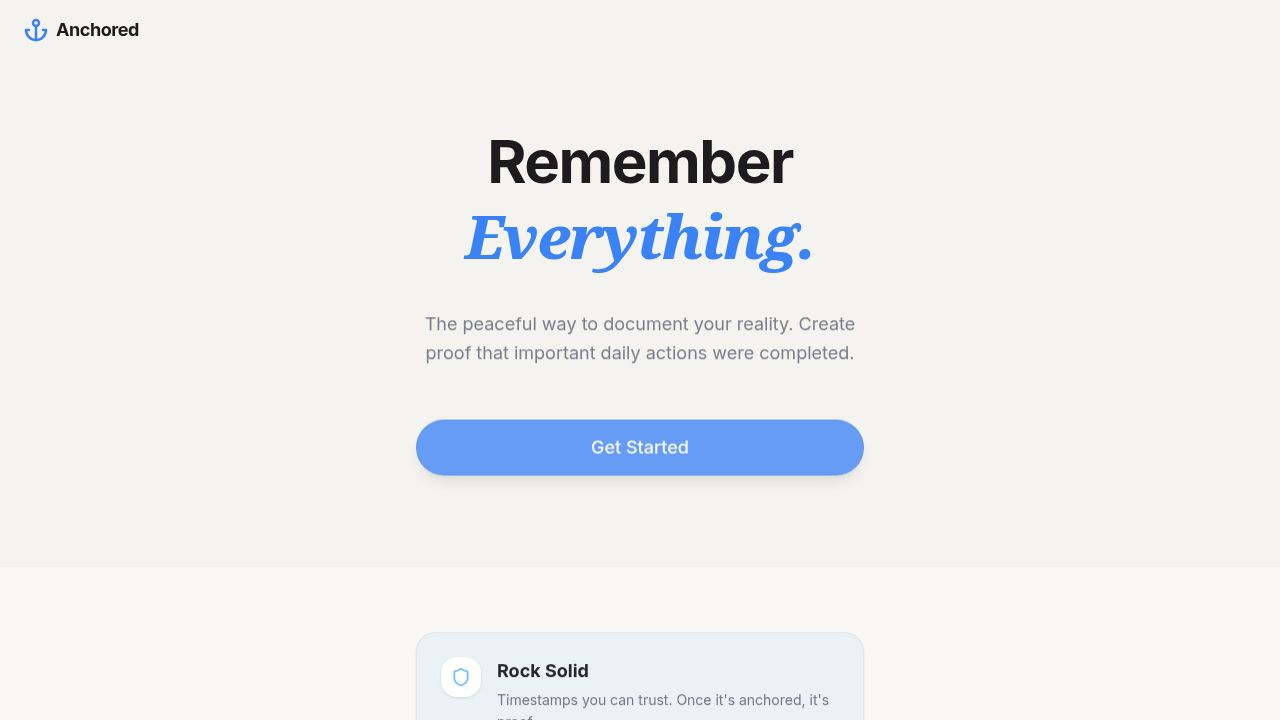
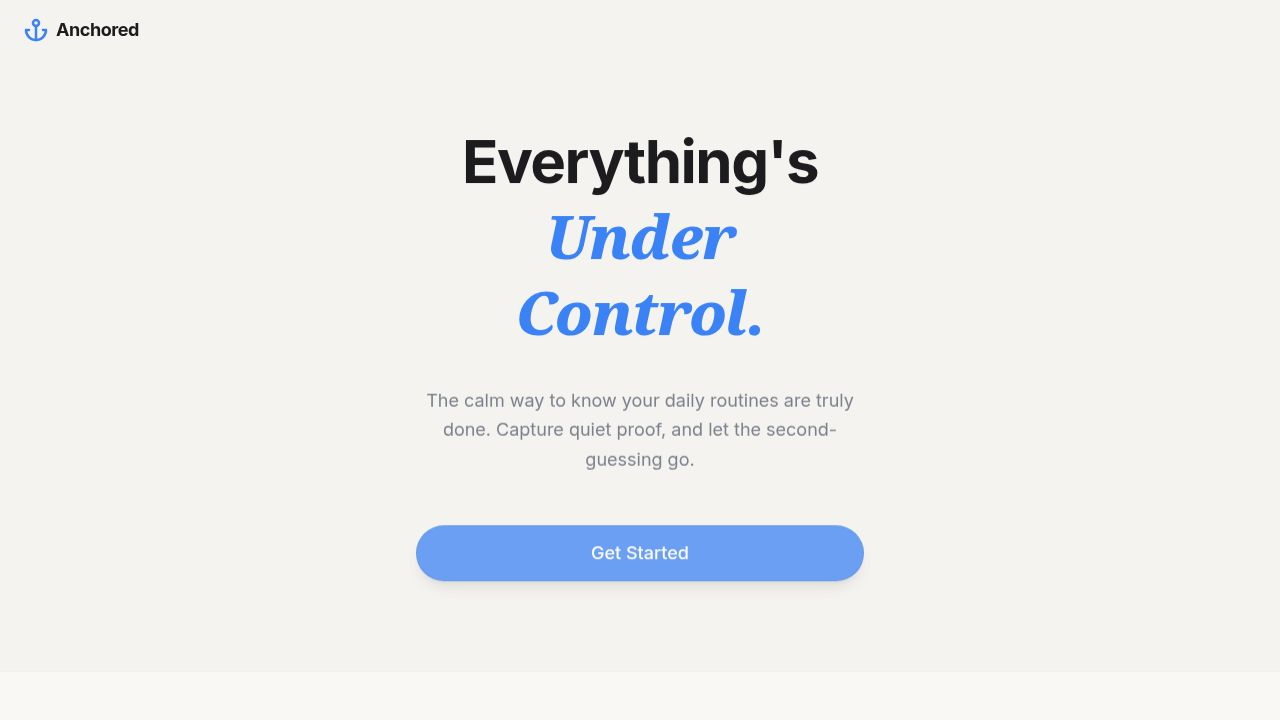
Update app messaging to focus on control and peace of mind
Reframes the app's core messaging from memory retention to reassurance and confidence, updating the hero section text and generating comprehensive App Store and Play Store listing content.

Replit-Commit-Author: Agent
Replit-Commit-Session-Id: d3316cb3-aefa-4a03-8efd-afc5392a4cac
Replit-Commit-Checkpoint-Type: full_checkpoint
Replit-Commit-Event-Id: 3b763174-ab72-4ace-8881-a6bda5b5ba46
Replit-Commit-Screenshot-Url: https://storage.googleapis.com/screenshot-production-us-central1/2643c90a-66cb-4a08-b3db-355bcd99606f/d3316cb3-aefa-4a03-8efd-afc5392a4cac/mYJzvJZ
Replit-Helium-Checkpoint-Created: true

diff --git a/artifacts/anchored/src/pages/home.tsx b/artifacts/anchored/src/pages/home.tsx
@@ -17,12 +17,12 @@ export default function Home() {
       <main className="flex-1 flex flex-col items-center justify-center pt-16 pb-24 px-6 relative z-0">
         <div className="max-w-md mx-auto text-center space-y-8">
           <h1 className="text-5xl md:text-6xl font-extrabold tracking-tight leading-tight text-foreground animate-hero-title">
-            Remember<br />
-            <span className="text-primary italic font-serif">Everything.</span>
+            Everything's<br />
+            <span className="text-primary italic font-serif">Under Control.</span>
           </h1>
           
           <p className="text-lg text-muted-foreground leading-relaxed animate-hero-subtitle">
-            The peaceful way to document your reality. Create proof that important daily actions were completed.
+            The calm way to know your daily routines are truly done. Capture quiet proof, and let the second-guessing go.
           </p>
 
           <div className="pt-4 animate-hero-cta w-full">

diff --git a/artifacts/mobile/store/store-listing.md b/artifacts/mobile/store/store-listing.md
@@ -1,0 +1,159 @@
+# Anchored — App Store & Play Store Listing Content
+
+> Positioning: people reach for Anchored because they're anxious they *didn't*
+> do the thing — lock the door, take the meds, pay the bill. The promise isn't
+> "remember more," it's **confidence, trust, and peace of mind**: everything is
+> under control. Copy below leads with reassurance, not memory.
+
+---
+
+## Core naming & taglines
+
+- **App name:** Anchored
+- **Subtitle (iOS, ≤30 chars):** `Calm proof your day is done` (27)
+- **Alt subtitles:**
+  - `Confidence your day is handled` (30)
+  - `Peace of mind, every day` (24)
+- **One-line tagline:** Everything's under control.
+
+---
+
+## Apple App Store
+
+### Promotional text (≤170 chars)
+> That nagging "did I actually do it?" feeling — gone. Anchored gives you calm,
+> dated proof that your daily routines are truly done. Peace of mind, on tap.
+
+### Keywords (≤100 chars, comma-separated, no spaces wasted)
+```
+peace of mind,routine,reminder,proof,checklist,habit,daily,medication,home safety,calm,tracker,log
+```
+
+### Description (≤4000 chars)
+```
+Everything's under control.
+
+If you've ever stood at the door wondering "did I lock it?" — or lay awake
+asking "did I take my pill, pay that bill, turn off the stove?" — Anchored is
+for you. It's the calm way to know, for certain, that the things that matter
+got done today.
+
+Anchored isn't another nagging to-do list. It's quiet, dependable proof. Each
+day you confirm your routines and Anchored saves a dated record you can trust.
+No more second-guessing. No more circling back to check. Just the steady
+confidence that everything is handled.
+
+WHY PEOPLE STAY ANCHORED
+• Peace of mind — replace the "did I?" loop with proof you can see.
+• Confidence — open the app and know exactly what's done and what's left.
+• Trust — every confirmation is dated, so your memory doesn't have to carry it.
+• Calm by design — a warm, uncluttered space, not a stressful checklist.
+
+HOW IT WORKS
+1. Choose your anchors — the routines that matter to you (home safety,
+   medication, bills, personal care, pet care, and more).
+2. Verify each day — a quick self-confirm, a photo, or a receipt. Whatever
+   gives you certainty.
+3. Build your timeline — your proof stacks up into a private record you can
+   look back on anytime.
+
+GENTLE DAILY REMINDERS
+Anchored can nudge you once a day, at a time you choose, about anything you
+haven't confirmed yet — so nothing slips, without the noise.
+
+BUILT FOR THE ANXIOUS MIND
+Anchored was made for people who care deeply about getting it right: caregivers,
+people managing medication, anyone who carries the mental load of a household.
+The whole experience is designed to feel reassuring, not demanding.
+
+PRIVATE BY DEFAULT
+Your proof is yours alone. Everything is tied to your private account and
+visible only to you. We don't sell your data or show you ads.
+
+Stop wondering. Start knowing. Download Anchored and feel everything fall into
+place.
+```
+
+### What's New (release notes — v1.0.0)
+```
+Welcome to Anchored.
+
+• Choose the daily routines that matter and confirm them with a tap, a photo,
+  or a receipt.
+• Build a private, dated timeline of proof you can trust.
+• Set one gentle daily reminder for anything you haven't confirmed yet.
+
+We'd love your feedback — it shapes what comes next.
+```
+
+### Categories
+- **Primary:** Health & Fitness  (alt: Lifestyle)
+- **Secondary:** Productivity
+
+### Age rating
+- 4+ (no objectionable content)
+
+---
+
+## Google Play Store
+
+### Short description (≤80 chars)
+> Calm, dated proof your daily routines are done. Stop wondering — start knowing.
+
+### Full description (≤4000 chars)
+Use the App Store description above; it fits within Play's 4000-char limit.
+Optionally lead with the short tagline line "Everything's under control." for
+parity.
+
+---
+
+## Privacy & data safety answers
+
+Use these to fill Apple's "App Privacy" questionnaire and Google's "Data safety"
+form. Confirm against the actual build before submitting.
+
+- **Account / contact info:** Email address — collected for account creation and
+  sign-in. Linked to the user. Not used for tracking.
+- **User content — photos:** Photos/receipts the user attaches as proof —
+  stored to provide the core feature. Linked to the user. Not used for tracking.
+- **Identifiers:** App account ID only. No advertising identifiers.
+- **Tracking:** None. The app does not track users across apps or websites.
+- **Ads:** None.
+- **Data sharing with third parties:** Auth and storage are handled by Supabase
+  (a data processor) solely to operate the app; data is not sold or shared for
+  advertising.
+- **Data deletion:** Users can request account and data deletion. Provide a
+  working deletion path/contact before submission (Apple & Google both require
+  this).
+- **Encryption in transit:** Yes (HTTPS).
+
+> NOTE: A public **Privacy Policy URL** is required by both stores. It must be
+> live before submission. Draft a policy reflecting the points above and host it
+> (the privacy page can live on the Anchored web app).
+
+---
+
+## Required URLs (fill before submission)
+
+- **Privacy Policy URL:** _TODO — must be public_
+- **Support URL:** _TODO_
+- **Marketing URL (optional):** the Anchored web app landing page
+
+---
+
+## Screenshots — shot list & captions
+
+Real device screenshots must be captured from a build (Apple requires 6.7" and
+6.5" iPhone sizes; Play requires phone screenshots). Suggested frames + caption
+overlays, all on-message with the calm/confidence positioning:
+
+1. **Hero / dashboard** — caption: "Everything's under control."
+2. **Today's anchors, some confirmed** — caption: "See what's done at a glance."
+3. **Verifying with a photo** — caption: "Proof you can trust — not just memory."
+4. **The timeline / history** — caption: "Your dated record, always there."
+5. **Daily reminder setting** — caption: "One gentle nudge, on your schedule."
+6. **Empty / all-done state** — caption: "Nothing left to worry about today."
+
+Design notes: warm mid-century palette, generous whitespace, Inter type — keep
+the captions short and reassuring, never urgent.
+```